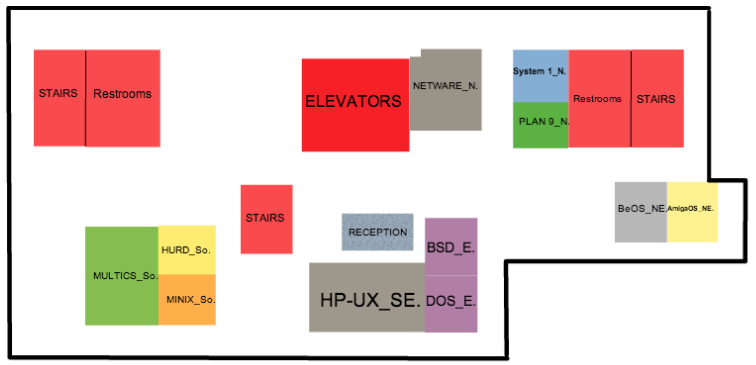
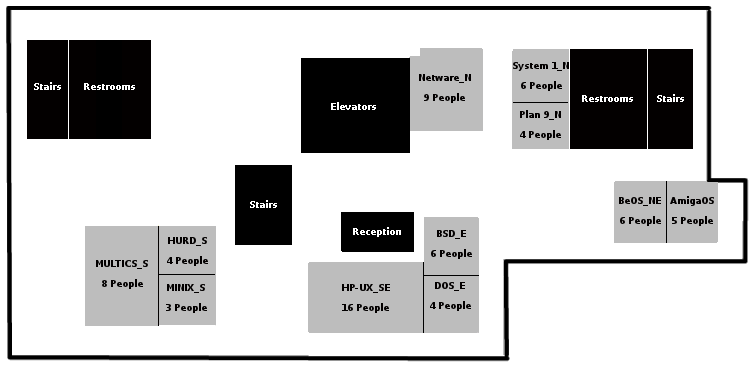
Changed img and layover colors

diff --git a/public/javascripts/icrt.js b/public/javascripts/icrt.js
@@ -11,9 +11,9 @@
           data: "room=" + ($(l).attr('id')) + "&time=" + ($('#time_select').val()),
           success: function(data) {
             if (data === 'true') {
-              return $(l).attr('data-maphilight', '{"fillColor":"228B22","fillOpacity":"0.6", "alwaysOn":true}').trigger("alwaysOn.maphilight");
+              return $(l).attr('data-maphilight', '{"fillColor":"228B22","fillOpacity":"0.3", "alwaysOn":true}').trigger("alwaysOn.maphilight");
             } else {
-              return $(l).attr('data-maphilight', '{"fillColor":"FFFFFF","fillOpacity":"1.0", "alwaysOn":true}').trigger("alwaysOn.maphilight");
+              return $(l).attr('data-maphilight', '{"fillColor":"FF0000","fillOpacity":"0.3", "alwaysOn":true}').trigger("alwaysOn.maphilight");
             }
           },
           error: function(data) {
